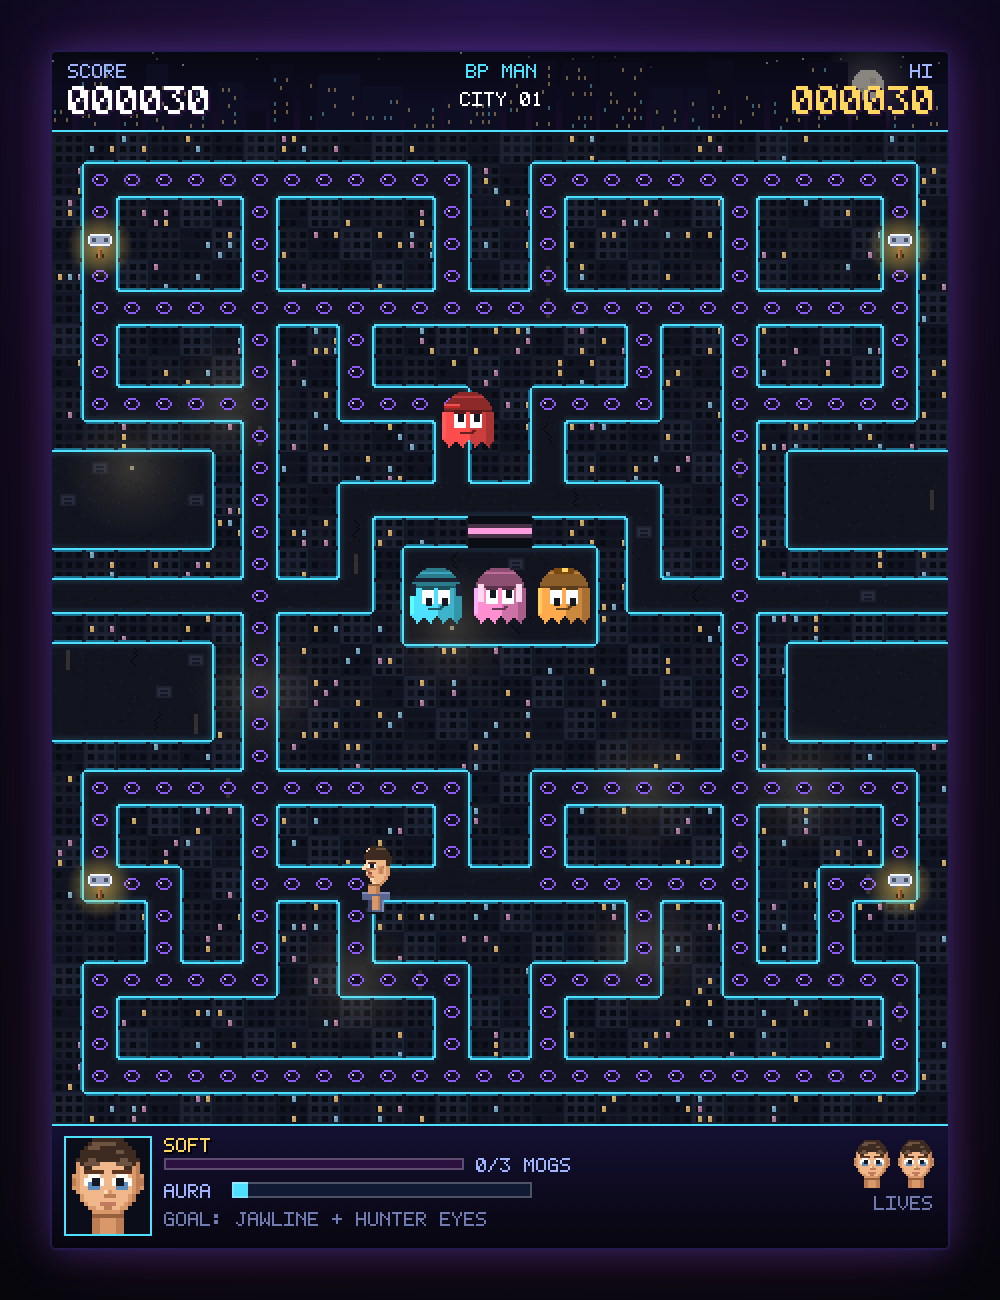
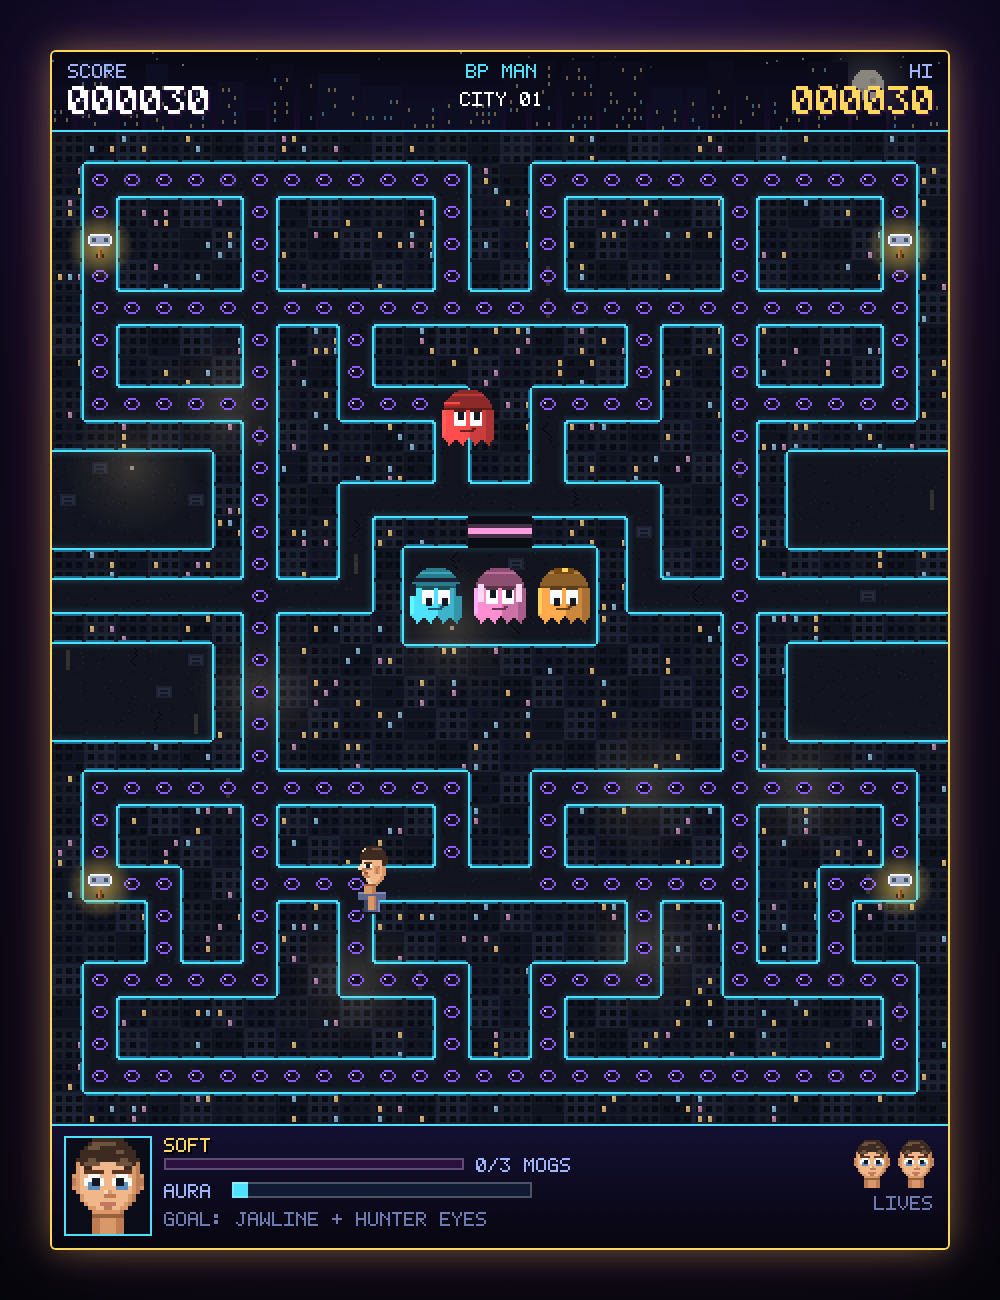
Keep keyboard working when the page is embedded in a frame
Focus the canvas on boot and on click, listen for keydown on the canvas as
well as the window, and say "press enter or click" on the title screen, so
the game is playable when it is hosted inside an iframe. Adds a visible
focus ring and honours prefers-reduced-motion.

Claude-Session: https://claude.ai/code/session_01WTpi9cuDCrzCvyXACwUwrM

diff --git a/dist/artifact.html b/dist/artifact.html
@@ -30,6 +30,7 @@ body {
 
 canvas#screen {
   display: block;
+  outline: none;
   image-rendering: pixelated;
   image-rendering: crisp-edges;
   touch-action: none;
@@ -49,6 +50,17 @@ canvas#screen {
   font-size: 13px;
   letter-spacing: 2px;
   color: #6f7bb0;
+}
+
+canvas#screen:focus-visible {
+  box-shadow:
+    0 0 0 2px #ffd75e,
+    0 0 34px rgba(255, 215, 94, 0.4),
+    0 0 90px rgba(255, 91, 208, 0.18);
+}
+
+@media (prefers-reduced-motion: reduce) {
+  * { animation: none !important; transition: none !important; }
 }
 </style>
 <div id="stage">
@@ -2481,7 +2493,7 @@ canvas#screen {
     bg.restore();
 
     if (Math.floor(G.t * 2) % 2) {
-      FT.text(bg, 'PRESS ENTER TO START', VIEW_W / 2, VIEW_H - 60,
+      FT.text(bg, 'PRESS ENTER OR CLICK TO START', VIEW_W / 2, VIEW_H - 60,
         { color: '#ffffff', align: 'center', scale: 2, shadow: '#ff5bd0' });
     }
     FT.text(bg, 'ARROWS / WASD  MOVE     SPACE  AURA     P  PAUSE     M  MUTE',
@@ -2555,9 +2567,13 @@ canvas#screen {
     loadLevel(true);
     G.state = 'title';
     window.addEventListener('keydown', keydown);
+    canvasEl.addEventListener('keydown', keydown);
+    canvasEl.setAttribute('tabindex', '0');
+    try { canvasEl.focus({ preventScroll: true }); } catch (e) { canvasEl.focus(); }
     bindTouch(canvasEl);
     canvasEl.addEventListener('mousedown', function () {
       A.resume();
+      try { canvasEl.focus({ preventScroll: true }); } catch (e) {}
       if (G.state === 'title' || G.state === 'gameover') newGame();
       else if (G.state === 'victory') continueEndless();
     });

diff --git a/dist/bpman.html b/dist/bpman.html
@@ -35,6 +35,7 @@ body {
 
 canvas#screen {
   display: block;
+  outline: none;
   image-rendering: pixelated;
   image-rendering: crisp-edges;
   touch-action: none;
@@ -54,6 +55,17 @@ canvas#screen {
   font-size: 13px;
   letter-spacing: 2px;
   color: #6f7bb0;
+}
+
+canvas#screen:focus-visible {
+  box-shadow:
+    0 0 0 2px #ffd75e,
+    0 0 34px rgba(255, 215, 94, 0.4),
+    0 0 90px rgba(255, 91, 208, 0.18);
+}
+
+@media (prefers-reduced-motion: reduce) {
+  * { animation: none !important; transition: none !important; }
 }
 </style>
 </head>
@@ -2488,7 +2500,7 @@ canvas#screen {
     bg.restore();
 
     if (Math.floor(G.t * 2) % 2) {
-      FT.text(bg, 'PRESS ENTER TO START', VIEW_W / 2, VIEW_H - 60,
+      FT.text(bg, 'PRESS ENTER OR CLICK TO START', VIEW_W / 2, VIEW_H - 60,
         { color: '#ffffff', align: 'center', scale: 2, shadow: '#ff5bd0' });
     }
     FT.text(bg, 'ARROWS / WASD  MOVE     SPACE  AURA     P  PAUSE     M  MUTE',
@@ -2562,9 +2574,13 @@ canvas#screen {
     loadLevel(true);
     G.state = 'title';
     window.addEventListener('keydown', keydown);
+    canvasEl.addEventListener('keydown', keydown);
+    canvasEl.setAttribute('tabindex', '0');
+    try { canvasEl.focus({ preventScroll: true }); } catch (e) { canvasEl.focus(); }
     bindTouch(canvasEl);
     canvasEl.addEventListener('mousedown', function () {
       A.resume();
+      try { canvasEl.focus({ preventScroll: true }); } catch (e) {}
       if (G.state === 'title' || G.state === 'gameover') newGame();
       else if (G.state === 'victory') continueEndless();
     });

diff --git a/js/game.js b/js/game.js
@@ -945,7 +945,7 @@
     bg.restore();
 
     if (Math.floor(G.t * 2) % 2) {
-      FT.text(bg, 'PRESS ENTER TO START', VIEW_W / 2, VIEW_H - 60,
+      FT.text(bg, 'PRESS ENTER OR CLICK TO START', VIEW_W / 2, VIEW_H - 60,
         { color: '#ffffff', align: 'center', scale: 2, shadow: '#ff5bd0' });
     }
     FT.text(bg, 'ARROWS / WASD  MOVE     SPACE  AURA     P  PAUSE     M  MUTE',
@@ -1019,9 +1019,13 @@
     loadLevel(true);
     G.state = 'title';
     window.addEventListener('keydown', keydown);
+    canvasEl.addEventListener('keydown', keydown);
+    canvasEl.setAttribute('tabindex', '0');
+    try { canvasEl.focus({ preventScroll: true }); } catch (e) { canvasEl.focus(); }
     bindTouch(canvasEl);
     canvasEl.addEventListener('mousedown', function () {
       A.resume();
+      try { canvasEl.focus({ preventScroll: true }); } catch (e) {}
       if (G.state === 'title' || G.state === 'gameover') newGame();
       else if (G.state === 'victory') continueEndless();
     });

diff --git a/css/style.css b/css/style.css
@@ -28,6 +28,7 @@ body {
 
 canvas#screen {
   display: block;
+  outline: none;
   image-rendering: pixelated;
   image-rendering: crisp-edges;
   touch-action: none;
@@ -47,4 +48,15 @@ canvas#screen {
   font-size: 13px;
   letter-spacing: 2px;
   color: #6f7bb0;
+}
+
+canvas#screen:focus-visible {
+  box-shadow:
+    0 0 0 2px #ffd75e,
+    0 0 34px rgba(255, 215, 94, 0.4),
+    0 0 90px rgba(255, 91, 208, 0.18);
+}
+
+@media (prefers-reduced-motion: reduce) {
+  * { animation: none !important; transition: none !important; }
 }
